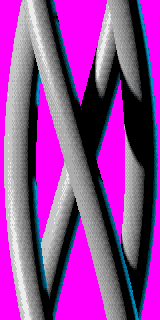
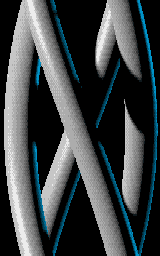
- Draft twister, looking OK, surprisingly.

diff --git a/mandafunk/src/twisted_metal.c b/mandafunk/src/twisted_metal.c
@@ -1,31 +1,44 @@
 #include <genesis.h>
 #include <gfx.h>
 
+#define TWISTER_TABLE_SIZE 1024
+#define CST_CTRL_PORT 0xC00004
+#define CST_DATA_PORT 0xC00000
+#define CST_WRITE_VSRAM_ADDR(adr)   ((0x4000 + ((adr) & 0x3FFF)) << 16) + (((adr) >> 14) | 0x10)
+
 void twistedMetal(void)
 {
 	u16 vramIndex = TILE_USERINDEX;
-	u16 scroll_jump_table[512];
+	u16 scroll_jump_table[TWISTER_TABLE_SIZE];
 	u16 i, vcount = 0;
 
+    vu16 *pw;
+    vu32 *pl;
+
+    pw = (u16 *) GFX_DATA_PORT;
+    pl = (u32 *) GFX_CTRL_PORT;
+
 	static void hBlank(){
-		// VDP_setVerticalScroll(PLAN_A, scroll_jump_table[GET_VCOUNTER]);
-		VDP_setVerticalScroll(PLAN_A, scroll_jump_table[(GET_VCOUNTER + vcount) & 511] + ((vcount << 2) & 255));
+		// VDP_setVerticalScroll(PLAN_A, scroll_jump_table[(GET_VCOUNTER + vcount) & ((TWISTER_TABLE_SIZE >> 2) - 1)] + (64 + sinFix16(vcount << 1)) << 1);
+
+	    *pl = CST_WRITE_VSRAM_ADDR(0);
+	    *pw = scroll_jump_table[(GET_VCOUNTER + vcount) & ((TWISTER_TABLE_SIZE >> 2) - 1)] + (64 + sinFix16(vcount << 1)) << 1;		
 	}
 
-	for(i = 0; i < 512; i++)
-		scroll_jump_table[i] = (i * (sinFix16(i << 1) + 64)) >> 8;
+	for(i = 0; i < TWISTER_TABLE_SIZE; i++)
+		scroll_jump_table[i] = (i * (sinFix16(i << 2) + 64)) >> 7;
 
 	SYS_disableInts();
 
 	/* Set a larger tileplan to be able to scroll */
-	VDP_setPlanSize(32, 128);
+	VDP_setPlanSize(32, 64);
 
 	VDP_clearPlan(APLAN, 0);
 	VDP_clearPlan(BPLAN, 0);
 
 	/* Load the fond tiles */
-	VDP_drawImageEx(APLAN, &twister, TILE_ATTR_FULL(PAL0, FALSE, FALSE, FALSE, vramIndex), 0, 0, FALSE, FALSE);
-	VDP_drawImageEx(APLAN, &twister, TILE_ATTR_FULL(PAL0, FALSE, FALSE, FALSE, vramIndex), 0, 320 / 8, FALSE, FALSE);
+	VDP_drawImageEx(APLAN, &twister, TILE_ATTR_FULL(PAL0, FALSE, FALSE, FALSE, vramIndex), 8, 0, FALSE, FALSE);
+	VDP_drawImageEx(APLAN, &twister, TILE_ATTR_FULL(PAL0, FALSE, FALSE, FALSE, vramIndex), 8, 256 / 8, FALSE, FALSE);
 	vramIndex += twister.tileset->numTile;
 
 	VDP_setPalette(PAL0, twister.palette->data);
